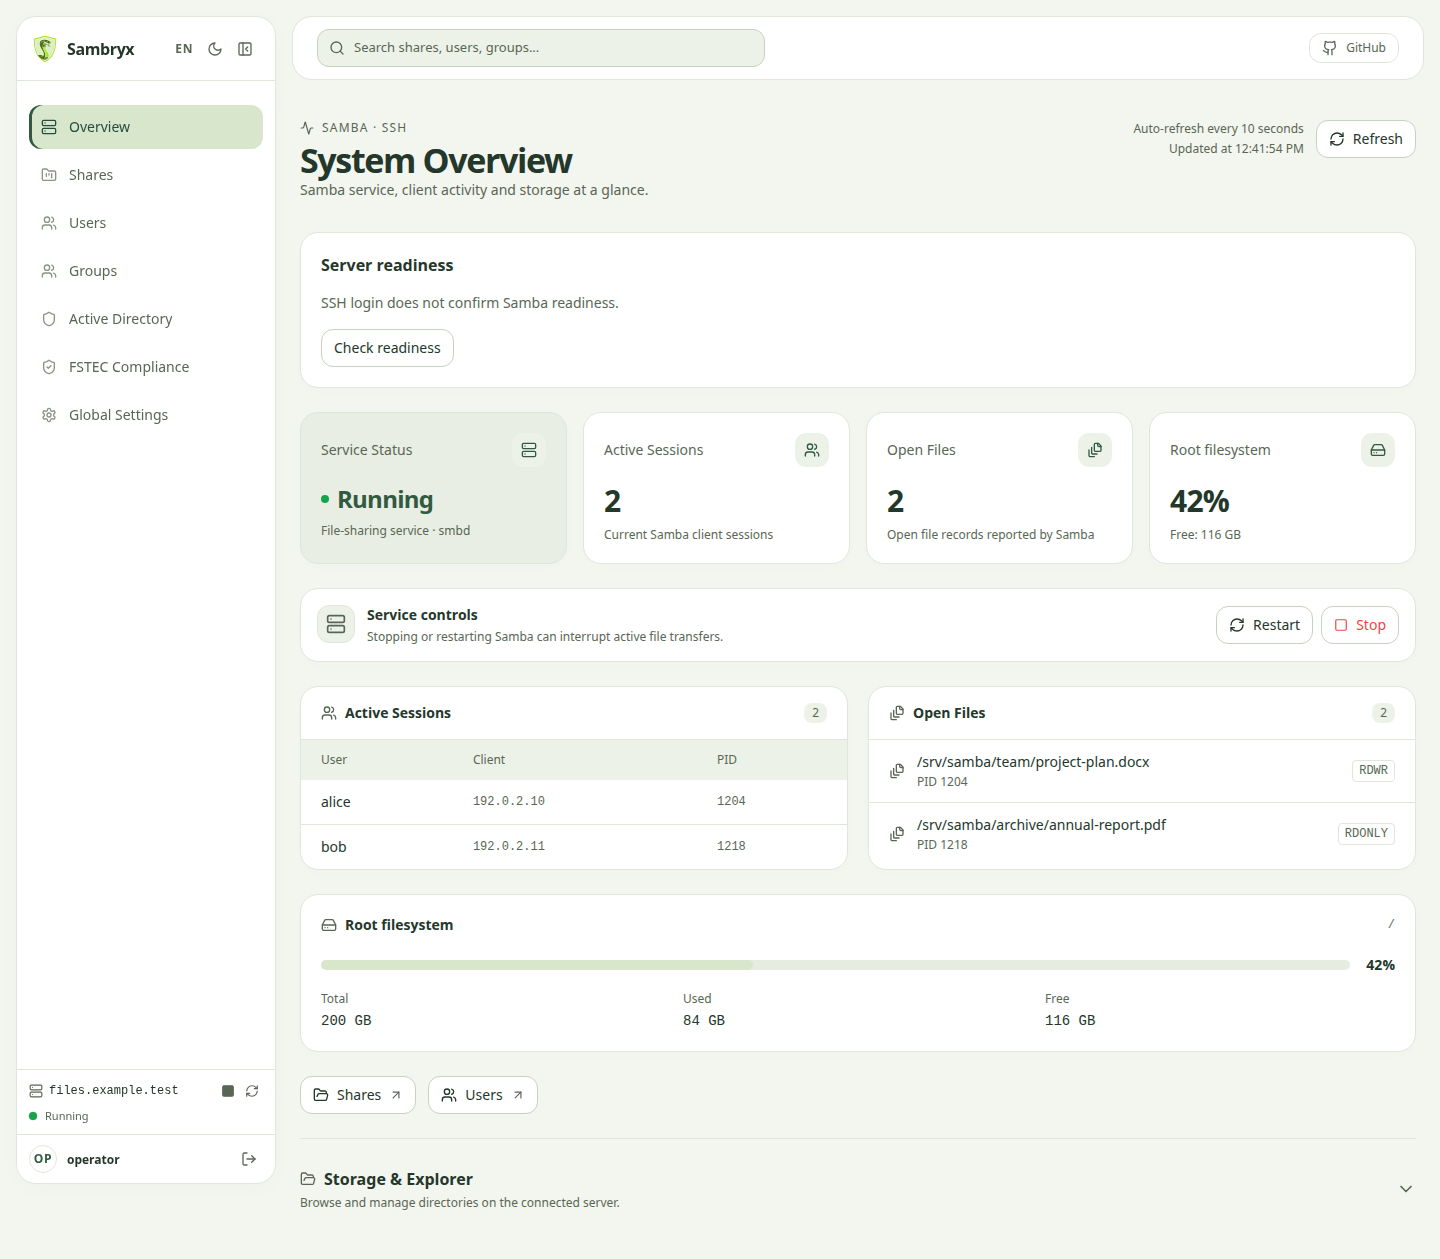
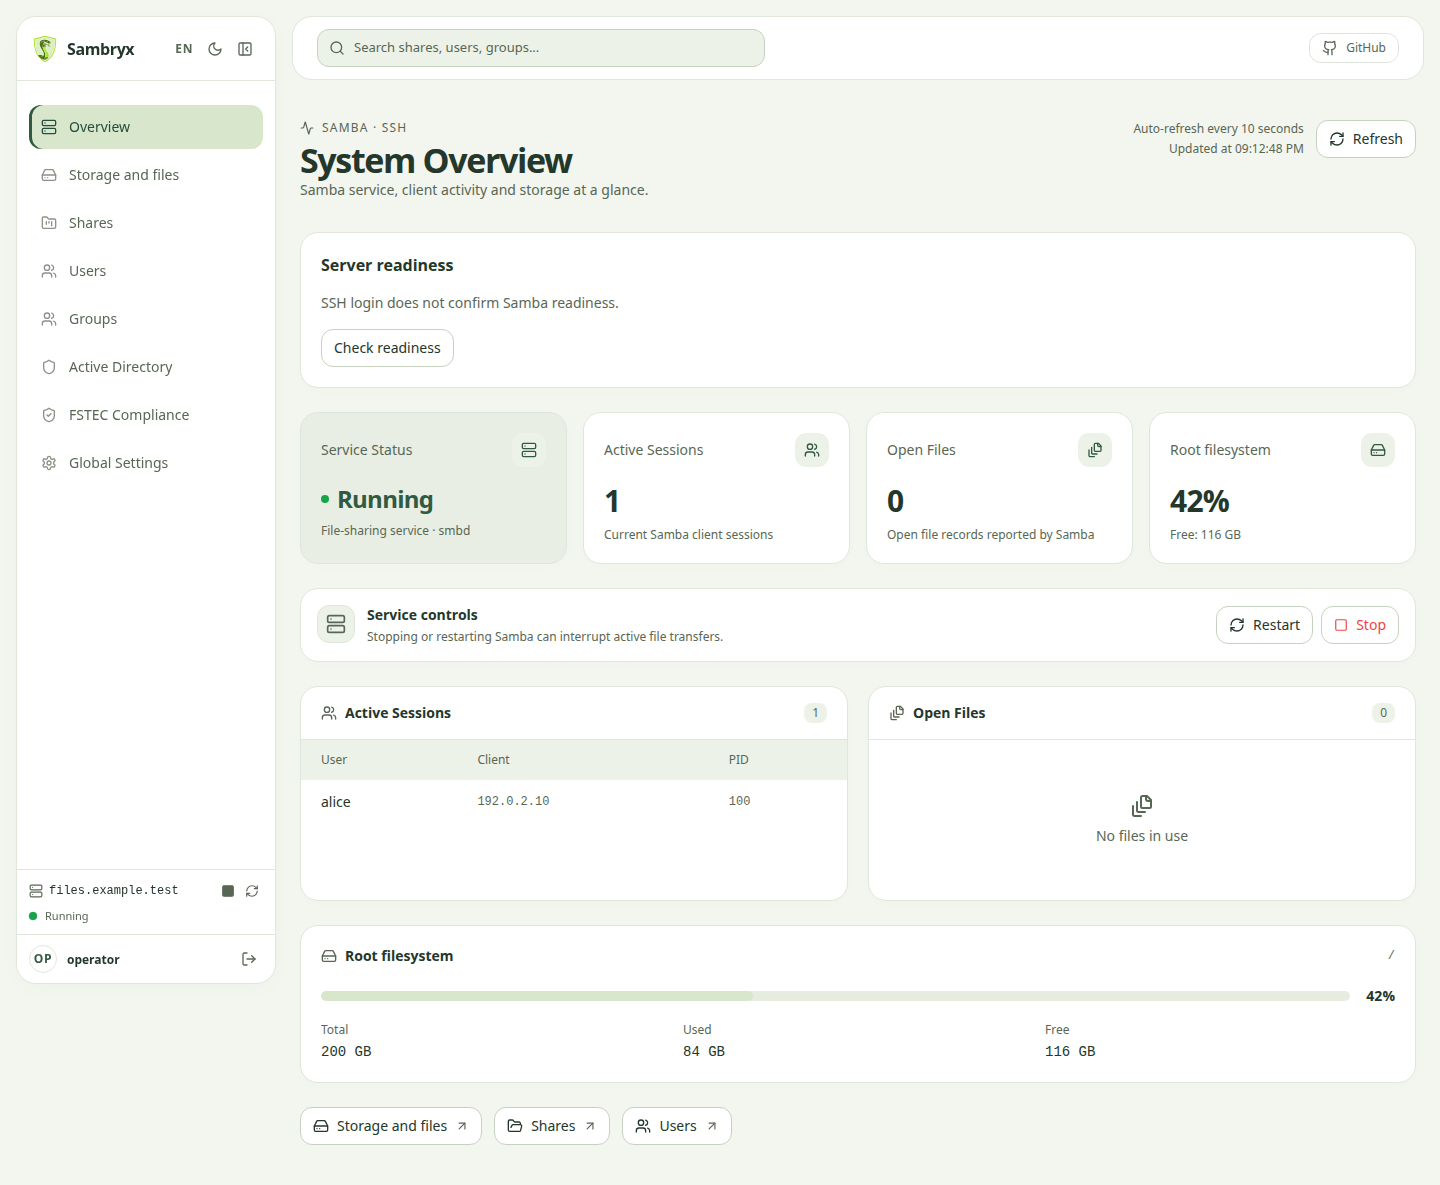
feat(ui): move storage and files into main navigation

diff --git a/frontend/src/pages/DashboardPage.tsx b/frontend/src/pages/DashboardPage.tsx
@@ -10,7 +10,6 @@ import {
   Activity,
   AlertTriangle,
   ArrowUpRight,
-  ChevronDown,
   FileStack,
   FolderOpen,
   HardDrive,
@@ -26,7 +25,6 @@ import { useToast } from "../components/ui/toast";
 import { useConfirm } from "../components/ui/confirm";
 import { useTranslation } from "../lib/i18n";
 import { ServerReadiness } from "../components/ServerReadiness";
-import { FileManager } from "../components/FileManager";
 
 interface DashboardData {
   isRunning: boolean;
@@ -83,8 +81,6 @@ export default function DashboardPage() {
   const [pendingAction, setPendingAction] = useState<ServiceAction | null>(
     null,
   );
-  const [explorerOpen, setExplorerOpen] = useState(false);
-  const [explorerLoaded, setExplorerLoaded] = useState(false);
   const mounted = useRef(false);
   const fetching = useRef(false);
   const controlling = useRef(false);
@@ -539,6 +535,11 @@ export default function DashboardPage() {
       </section>
 
       <div className="flex flex-wrap gap-3">
+        <Link to="/storage" className={button}>
+          <HardDrive className="h-4 w-4" />
+          {t("sidebar.storage")}
+          <ArrowUpRight className="h-3.5 w-3.5 text-text-muted" />
+        </Link>
         <Link to="/shares" className={button}>
           <FolderOpen className="h-4 w-4" />
           {t("sidebar.shares")}
@@ -550,38 +551,6 @@ export default function DashboardPage() {
           <ArrowUpRight className="h-3.5 w-3.5 text-text-muted" />
         </Link>
       </div>
-
-      <section className="border-t border-border pt-5">
-        <button
-          onClick={() => {
-            setExplorerLoaded(true);
-            setExplorerOpen(!explorerOpen);
-          }}
-          aria-expanded={explorerOpen}
-          aria-controls="dashboard-explorer"
-          className="flex w-full items-center justify-between gap-3 rounded-lg py-2 text-left focus-visible:outline-none focus-visible:ring-2 focus-visible:ring-accent-text"
-        >
-          <span>
-            <span className="flex items-center gap-2 text-base font-semibold">
-              <FolderOpen className="h-4 w-4 text-text-muted" />
-              {t("dashboard.storageExplorer")}
-            </span>
-            <span className="mt-1 block text-xs text-text-muted">
-              {t("dashboard.explorerCaption")}
-            </span>
-          </span>
-          <ChevronDown
-            className={`h-5 w-5 shrink-0 text-text-muted transition-transform ${explorerOpen ? "rotate-180" : ""}`}
-          />
-        </button>
-        <div id="dashboard-explorer" hidden={!explorerOpen}>
-          {explorerLoaded && (
-            <div className="pt-4">
-              <FileManager />
-            </div>
-          )}
-        </div>
-      </section>
     </div>
   );
 }

diff --git a/frontend/src/lib/i18n.ts b/frontend/src/lib/i18n.ts
@@ -83,6 +83,7 @@ export const translations = {
     },
     sidebar: {
       dashboard: "Overview",
+      storage: "Storage and files",
       shares: "Shares",
       users: "Users",
       groups: "Groups",
@@ -146,7 +147,6 @@ export const translations = {
       openFiles: "Open Files",
       locked: "locked",
       noFilesInUse: "No files in use",
-      storageExplorer: "Storage & Explorer",
       total: "Total",
       used: "Used",
       free: "Free",
@@ -475,6 +475,7 @@ export const translations = {
     },
     sidebar: {
       dashboard: "Обзор",
+      storage: "Диски и файлы",
       shares: "Папки",
       users: "Пользователи",
       groups: "Группы",
@@ -538,7 +539,6 @@ export const translations = {
       openFiles: "Открытые файлы",
       locked: "заблокировано",
       noFilesInUse: "Нет используемых файлов",
-      storageExplorer: "Диски и Файлы",
       total: "Всего",
       used: "Занято",
       free: "Свободно",

diff --git a/frontend/src/App.tsx b/frontend/src/App.tsx
@@ -1,6 +1,7 @@
 import { BrowserRouter, Routes, Route, Navigate } from "react-router-dom";
 import LoginPage from "./pages/LoginPage";
 import Layout from "./components/Layout";
+import StoragePage from "./pages/StoragePage";
 import DashboardPage from "./pages/DashboardPage";
 import SharesPage from "./pages/shares/SharesPage";
 import UsersPage from "./pages/users/UsersPage";
@@ -23,6 +24,7 @@ function App() {
             <Route element={<Layout />}>
               <Route path="/" element={<Navigate to="/shares" replace />} />
               <Route path="/dashboard" element={<DashboardPage />} />
+              <Route path="/storage" element={<StoragePage />} />
               <Route path="/shares" element={<SharesPage />} />
               <Route path="/groups" element={<GroupsPage />} />
               <Route path="/users" element={<UsersPage />} />

diff --git a/frontend/src/components/Layout.tsx b/frontend/src/components/Layout.tsx
@@ -3,6 +3,7 @@ import { useEffect, useState } from "react";
 import { Link, useLocation, Outlet } from "react-router-dom";
 import {
   Server,
+  HardDrive,
   FolderKanban,
   Users,
   Settings,
@@ -134,6 +135,7 @@ export default function Layout({ children }: { children?: React.ReactNode }) {
 
   const navItems = [
     { name: t("sidebar.dashboard"), path: "/dashboard", icon: Server },
+    { name: t("sidebar.storage"), path: "/storage", icon: HardDrive },
     { name: t("sidebar.shares"), path: "/shares", icon: FolderKanban },
     { name: t("sidebar.users"), path: "/users", icon: Users },
     { name: t("sidebar.groups"), path: "/groups", icon: Users },

diff --git a/frontend/src/pages/StoragePage.tsx b/frontend/src/pages/StoragePage.tsx
@@ -1,0 +1,16 @@
+import { FileManager } from "../components/FileManager";
+import { useTranslation } from "../lib/i18n";
+
+export default function StoragePage() {
+  const { t } = useTranslation();
+
+  return (
+    <div className="space-y-6">
+      <div className="dashboard-heading">
+        <h1 className="font-semibold text-foreground">{t("sidebar.storage")}</h1>
+        <p className="mt-1 text-sm text-text-muted">{t("dashboard.explorerCaption")}</p>
+      </div>
+      <FileManager />
+    </div>
+  );
+}

diff --git a/tools/browser/src/test/java/sambryx/browser/StorageIT.java b/tools/browser/src/test/java/sambryx/browser/StorageIT.java
@@ -1,0 +1,174 @@
+package sambryx.browser;
+
+import static com.microsoft.playwright.assertions.PlaywrightAssertions.assertThat;
+import static org.junit.jupiter.api.Assertions.*;
+import static sambryx.browser.BrowserFixture.button;
+
+import com.microsoft.playwright.Page;
+import com.microsoft.playwright.options.AriaRole;
+import java.util.ArrayList;
+import java.util.List;
+import java.util.regex.Pattern;
+import org.junit.jupiter.api.DisplayName;
+import org.junit.jupiter.params.ParameterizedTest;
+import org.junit.jupiter.params.provider.EnumSource;
+
+class StorageIT {
+    @DisplayName("Storage navigation supports keyboard access, active state and Dashboard shortcut")
+    @ParameterizedTest
+    @EnumSource(BrowserVariant.class)
+    void navigatesFromOverview(BrowserVariant variant) {
+        try (var runtime = new BrowserTestRuntime()) {
+            runtime.verify(variant, "en", "storage-navigation", f -> {
+                f.go("/ui/dashboard");
+                assertThat(f.page.locator("main h1")).isVisible();
+                assertThat(f.page.locator(".file-manager")).hasCount(0);
+                assertEquals(0, f.app.count("/api/fs/browse"));
+                assertThat(button(f.page.locator("main"), "Stop")).isEnabled();
+                f.screenshot("overview");
+                var nav = f.page.getByRole(AriaRole.NAVIGATION, new Page.GetByRoleOptions().setName("Main navigation"));
+                var link = nav.locator("a[href='/ui/storage']");
+                assertThat(link).hasText("Storage and files");
+                link.focus();
+                assertThat(link).isFocused();
+                f.page.keyboard().press("Enter");
+                assertThat(f.page).hasURL(Pattern.compile("/ui/storage$"));
+                assertThat(link).hasAttribute("aria-current", "page");
+                assertThat(f.page.locator(".file-manager")).hasCount(1);
+                f.go("/ui/dashboard");
+                f.page.locator("main a[href='/ui/storage']").click();
+                assertThat(f.page.locator("main h1")).hasText("Storage and files");
+                assertTrue(f.fits());
+                f.page.locator("main").evaluate("element => element.focus({preventScroll: true})");
+                f.page.evaluate("window.scrollTo(0, 0)");
+                f.screenshot("page");
+            });
+        }
+    }
+
+    @DisplayName("Russian storage direct entry and reload retain both original path roots")
+    @ParameterizedTest
+    @EnumSource(BrowserVariant.class)
+    void opensDirectlyAndReloads(BrowserVariant variant) {
+        try (var runtime = new BrowserTestRuntime()) {
+            runtime.verify(variant, "ru", "storage-direct-ru", f -> {
+                f.go("/ui/storage");
+                assertThat(f.page.locator("main h1")).hasText("Диски и файлы");
+                assertThat(f.page.locator(".file-manager table")).hasCount(2);
+                assertThat(f.page.locator("nav [aria-current=page]:visible")).hasText("Диски и файлы");
+                f.page.reload();
+                assertThat(f.page.locator(".file-manager table")).hasCount(2);
+                assertThat(f.page.locator(".file-manager")).containsText("home");
+                assertTrue(f.app.requests.stream().anyMatch(r -> r.path().equals("/api/fs/browse")));
+                assertTrue(f.fits());
+                f.page.locator("main").evaluate("element => element.focus({preventScroll: true})");
+                f.page.evaluate("window.scrollTo(0, 0)");
+                f.screenshot("page");
+            });
+        }
+    }
+
+    @DisplayName("Storage preserves browsing and copy API payloads with synthetic files only")
+    @ParameterizedTest
+    @EnumSource(BrowserVariant.class)
+    void browsesAndCopies(BrowserVariant variant) {
+        try (var runtime = new BrowserTestRuntime()) {
+            runtime.verify(variant, "en", "storage-browse-copy", f -> {
+                var bodies = new ArrayList<String>();
+                f.page.route("**/api/fs/copy", route -> {
+                    bodies.add(route.request().postData());
+                    BrowserState.reply(route, null);
+                });
+                f.go("/ui/storage");
+                var left = f.page.locator(".file-manager > div").first();
+                assertThat(left.getByText(
+                                "team", new com.microsoft.playwright.Locator.GetByTextOptions().setExact(true)))
+                        .isVisible();
+                left.getByText("team", new com.microsoft.playwright.Locator.GetByTextOptions().setExact(true))
+                        .click();
+                assertThat(button(left, "samba")).isVisible();
+                button(left, "Select: team").click();
+                for (String action : List.of("Download", "Copy", "Move", "Delete"))
+                    assertThat(button(left, action)).isVisible();
+                button(left, "Copy").click();
+                assertThat(f.page.getByRole(AriaRole.STATUS)
+                                .filter(new com.microsoft.playwright.Locator.FilterOptions().setHasText("Completed")))
+                        .isVisible();
+                assertEquals(1, bodies.size());
+                var body = BrowserState.json(bodies.getFirst());
+                assertEquals("/srv/samba/team", body.path("source").asText());
+                assertEquals("/home", body.path("destination").asText());
+                assertTrue(f.fits());
+            });
+        }
+    }
+
+    @DisplayName("Storage reports a denied browse without mutating files")
+    @ParameterizedTest
+    @EnumSource(BrowserVariant.class)
+    void reportsDeniedBrowse(BrowserVariant variant) {
+        try (var runtime = new BrowserTestRuntime()) {
+            runtime.verify(variant, "en", "storage-denied", f -> {
+                f.page.route("**/api/fs/browse?**", route -> BrowserState.reply(route, null, 403, "Permission denied"));
+                f.go("/ui/storage");
+                assertThat(f.page.getByRole(AriaRole.ALERT)
+                                .filter(new com.microsoft.playwright.Locator.FilterOptions()
+                                        .setHasText("Permission denied"))
+                                .first())
+                        .isVisible();
+                assertThat(f.page.locator("main h1")).hasText("Storage and files");
+                assertTrue(f.app.requests.stream().allMatch(r -> r.method().equals("GET")));
+            });
+        }
+    }
+
+    @DisplayName("Storage keeps ordinary directory creation payload and original root")
+    @ParameterizedTest
+    @EnumSource(BrowserVariant.class)
+    void createsDirectoryAtOriginalRoot(BrowserVariant variant) {
+        try (var runtime = new BrowserTestRuntime()) {
+            runtime.verify(variant, "en", "storage-mkdir", f -> {
+                var bodies = new ArrayList<String>();
+                var paths = new ArrayList<String>();
+                f.page.route("**/api/fs/browse?**", route -> {
+                    paths.add(route.request().url());
+                    route.fallback();
+                });
+                f.page.route("**/api/fs/mkdir", route -> {
+                    bodies.add(route.request().postData());
+                    BrowserState.reply(route, null);
+                });
+                f.go("/ui/storage");
+                var left = f.page.locator(".file-manager > div").first();
+                assertThat(left.getByRole(AriaRole.TABLE)).isVisible();
+                assertTrue(paths.stream().anyMatch(path -> path.endsWith("path=%2F")));
+                assertTrue(paths.stream().anyMatch(path -> path.endsWith("path=%2Fhome")));
+                button(left, "New folder").click();
+                left.getByPlaceholder("Directory name").fill("synthetic-folder");
+                button(left, "Create").click();
+                assertThat(left.getByPlaceholder("Directory name")).hasCount(0);
+                assertEquals(1, bodies.size());
+                var body = BrowserState.json(bodies.getFirst());
+                assertEquals("/", body.path("parentPath").asText());
+                assertEquals("synthetic-folder", body.path("name").asText());
+                assertFalse(body.has("preparation"));
+                assertTrue(f.fits());
+            });
+        }
+    }
+
+    @DisplayName("Storage direct entry redirects an unauthenticated session to login")
+    @ParameterizedTest
+    @EnumSource(BrowserVariant.class)
+    void requiresSession(BrowserVariant variant) {
+        try (var runtime = new BrowserTestRuntime()) {
+            runtime.verify(variant, "en", "storage-auth", f -> {
+                f.app.authenticated = false;
+                f.go("/ui/storage");
+                assertThat(f.page).hasURL(Pattern.compile("/ui/login$"));
+                assertThat(f.page.locator(".file-manager")).hasCount(0);
+                assertTrue(f.app.requests.stream().allMatch(r -> r.method().equals("GET")));
+            });
+        }
+    }
+}

diff --git a/docs/index.md b/docs/index.md
@@ -32,6 +32,14 @@ Sambryx — веб-панель управления Samba-сервером на
 Браузер управляет сервером через панель. Файловый клиент обращается к Samba напрямую
 по SMB: пользовательские файлы не хранятся в контейнере панели.
 
+## Диски и файлы
+
+Файловый менеджер доступен через пункт **Диски и файлы** основного меню
+(**Storage and files** в английском интерфейсе), в том числе на мобильном экране.
+После входа можно открыть `/ui/storage` напрямую или перейти по ссылке с Dashboard.
+Dashboard показывает обзор сервера; выбор каталога при создании общего ресурса
+остаётся отдельным диалогом.
+
 ## Версия документации и ограничения
 
 Этот сайт публикуется из `master` и может описывать изменения, которых ещё нет в

diff --git a/README.ru.md b/README.ru.md
@@ -22,6 +22,9 @@
 Позволяет системным администраторам централизованно управлять каталогами, учетными записями,
 правами доступа и глобальными параметрами `smb.conf`. Управляемый сервер подключается по SSH. Основной способ поставки панели — Docker.
 
+Откройте **Диски и файлы** в основном меню для работы с файлами сервера.
+После входа раздел также доступен напрямую по `/ui/storage`. Dashboard остаётся обзором сервера.
+
 ## Документация
 
 Полное руководство пользователя, инструкции по настройке и описание архитектуры доступны в **[документации](https://AndreyJVM.github.io/sambryx/)**. Связанные руководства написаны на русском языке.

diff --git a/README.md b/README.md
@@ -22,6 +22,9 @@
 It lets administrators manage shares, accounts, access permissions and global
 `smb.conf` settings through SSH. Docker is the primary distribution format.
 
+Open **Storage and files** in the main menu to browse and manage server files.
+The section also opens directly at `/ui/storage` after signing in. Dashboard remains a server overview.
+
 ## Documentation
 
 The **[documentation](https://AndreyJVM.github.io/sambryx/)** provides user guides,
